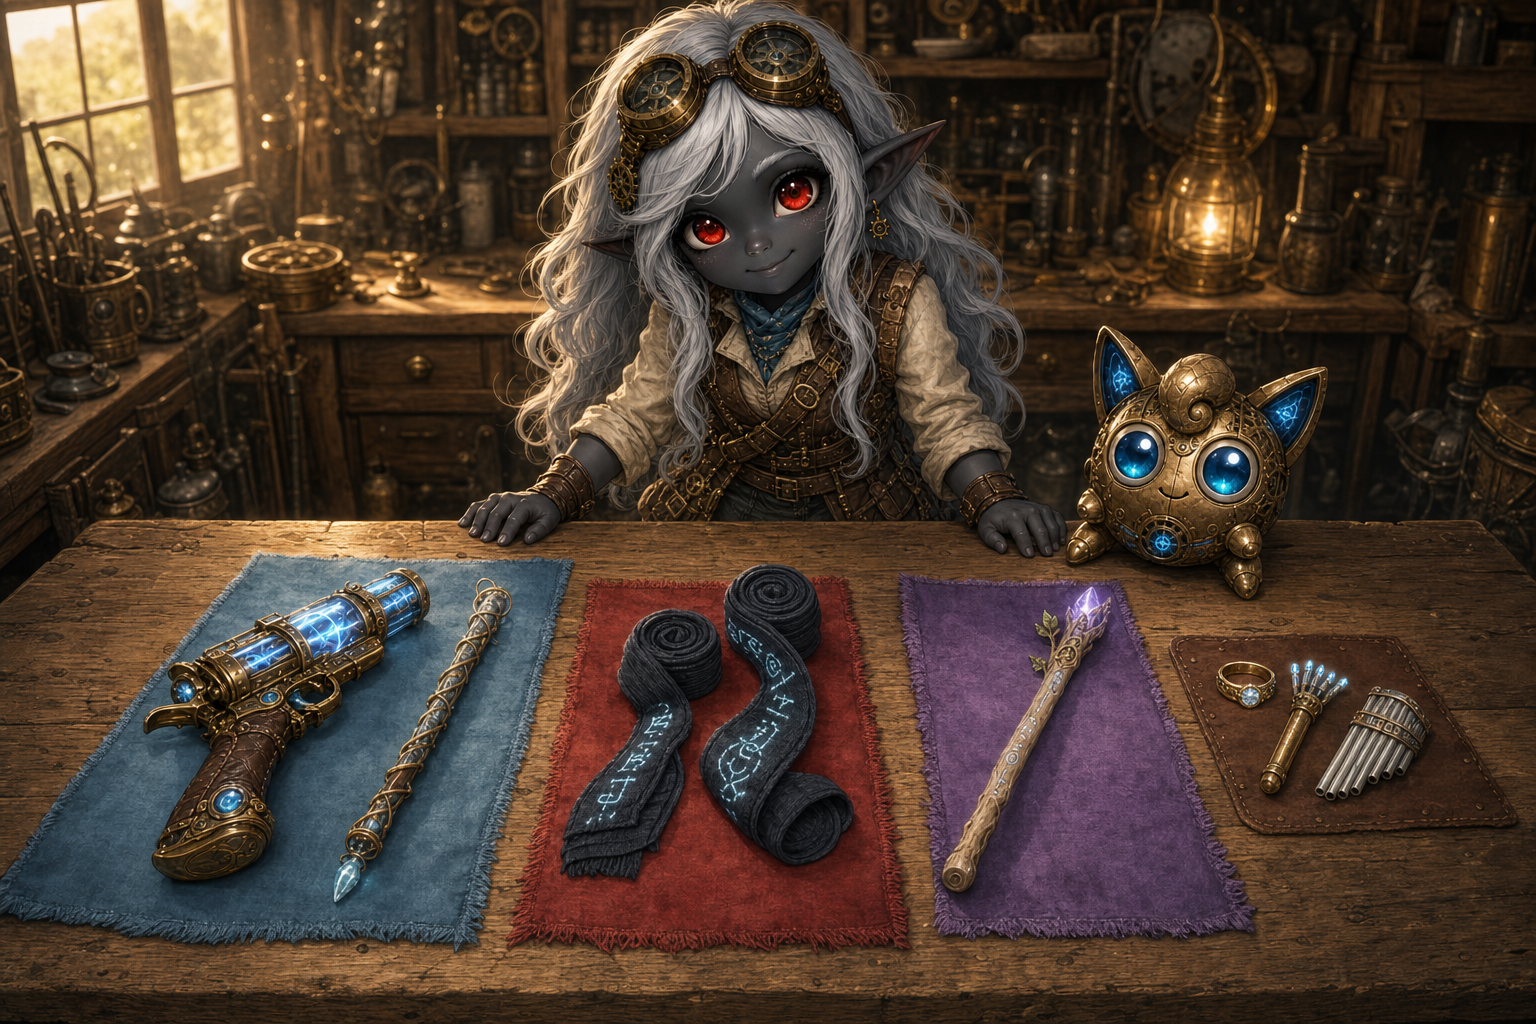
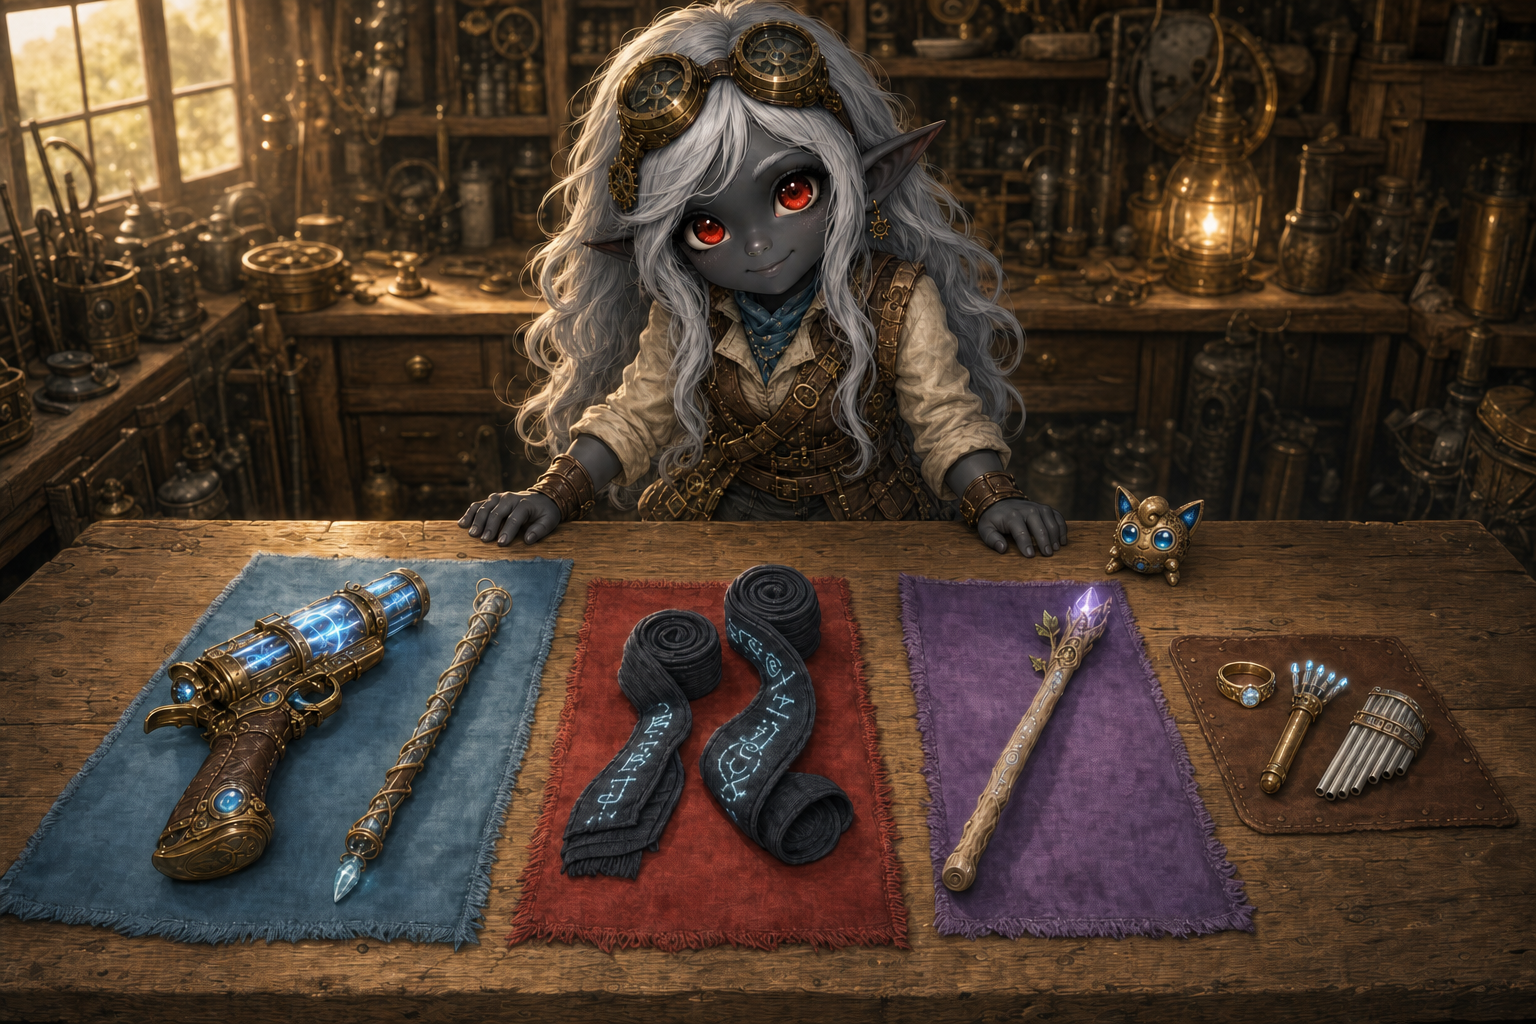
The handover scene, and Puff drawn at her actual size
Seven magic items land on three players at once in Session 8, and none of them
work the way a sword works. Charges run out at dawn rather than on a rest, one
casts at a save DC that is not Lilly's, and one does nothing at all until
somebody else loads it. So the handover is now a written scene rather than a
line of stage direction: Lilly explains each item, in her own voice, in a quiet
room with no monsters in it. Better they learn the Ring is empty here than on
the far side of the ring.

Each item gets what it does, why it matters, and the one thing its owner will
get wrong. Those traps are the point of the scene: the wraps do nothing for
Stabby's katana, Ursa's wand does not touch his save DC, Lilly's Wand of Web
casts at DC 13 and not her 16, and Puff has a single action so she can use only
one of her three things per turn. There is a one-page handout table at the end
carrying the same information for the players to keep.

The plate is corrected too. Puff had been drawn nearly the size of Lilly's
head, which breaks the canon scale rule that she is no bigger than a small
apple and fits in a child's cupped hands. Shrunk in place rather than re-rolled,
so the bench layout and the colour-coded cloths survived intact.

diff --git a/reference/campaign/session_08_draft.md b/reference/campaign/session_08_draft.md
@@ -112,6 +112,78 @@ So she stopped building at it and started listening to it.
 
 ---
 
+## Part 2b: The Handover
+
+Run this the morning before they step through, on the long bench in the Underworks. Lilly has laid everything out and sorted it by who it belongs to. See the plate: `assets/session_08/lilly_gifts_laid_out.png`.
+
+**Why this scene exists.** Three players are about to receive seven magic items between them, and none of those items work the way a sword works. Charges run out. One of them casts at a save DC that is not Lilly's. One of them has to be *loaded* by somebody else before it does anything at all. If the table does not learn this here, in a quiet room with no monsters, they will learn it at the worst possible moment on the other side of the ring. Let Lilly's player do the explaining wherever possible: it is her year's work and she has earned the moment.
+
+> **Read aloud.** Lilly has been awake since four. There is a cloth on the bench for each of you, which is a very Lilly way of doing things, and she has clearly rehearsed this speech, and she gets about six words into it before she gives up and just starts handing things over.
+
+### For Stabby: Wraps of Unarmed Power +2
+
+> "Give me your hands. No, the fists. *Both* of them."
+
+**How they work, in kid words:** wind them on and forget them. There is nothing to activate, nothing to spend, and nothing to run out. Every punch and kick is now **+2 to hit and +2 damage**, and he may choose to make any of those hits deal **Force** instead of bludgeoning, which almost nothing in the world resists.
+
+**What to say out loud at the table:** *your fists were the only weapon you owned with no magic in them, and now they are not.* His bonus-action punch happens nearly every turn, so this is not a small gift.
+
+**The one thing he will get wrong:** they do nothing for the katana. Nothing at all. The Nichirin is already +2 on its own and the wraps never stack with it.
+
+### For Ursa: Wand of the War Mage +2
+
+> "You have to be *holding* it. Not in your pack. Not on your belt. In your hand, the one without the staff."
+
+**How it works:** while he holds it, every **spell attack** he makes gets **+2 to hit**, and he ignores **Half Cover**. That is Starry Wisp, his Guiding Bolts, and his star-arrow, all to **+10**.
+
+**The one thing he will get wrong:** it does *not* raise his save DC. Spells where the enemy rolls a save (Spike Growth, Ice Storm, Polymorph) are unaffected. It only helps when *he* rolls to hit.
+
+**Table note:** the star-arrow counts, because Starry Form's arrow is a ranged spell attack. That means the wand improves two attacks a turn, not one. Make sure his player knows.
+
+### For Lilly: Wand of Web
+
+> "This one is mine. I have earned exactly one selfish thing."
+
+**How it works:** **7 charges.** Spend 1 as an action to cast **Web**: a 20-foot cube of sticky webbing that is difficult terrain, and anything caught in it makes a **Dexterity save or is Restrained**, escaping later with a Strength check. It regains **1d6+1 charges at dawn.**
+
+**The one thing everyone will get wrong:** the wand casts at **DC 13**, its own number, *not* Lilly's DC 16. Items cast at their own difficulty. Say this once at the table and write it on her sheet, which is already done.
+
+### For Puff: the three small things
+
+Puff gets a set of her own, and this needs the most explaining, because a homunculus has **one action on her turn** and three items to choose between. She cannot use two in a round.
+
+**Ring of Spell Storing** (worn, attuned to Puff). This one is a *shared* item and the party will miss it if nobody explains it.
+
+- It is **empty when you get it.** It does nothing until somebody loads it.
+- **Any caster** can load it: touch the ring while casting a spell of level 1 to 5, and the spell goes in instead of going off. It holds **5 levels of spells** in total.
+- Puff can then cast anything stored inside, using **the original caster's** slot level, save DC, and attack bonus. A spell Lilly puts in comes back out at **DC 16 and +8**, even though Puff herself is a little brass construct with no magic of her own.
+- **The tactical point:** this is how the party gets a second Revivify, or a second Healing Word, or a big spell on a turn when the caster is busy or unconscious. Encourage them to load it every morning and to think hard about what goes in.
+
+**Wand of Magic Missiles** (no attunement, so Puff can use it). **7 charges.** Spend **1 charge** for **three darts that never miss**, 1d4+1 Force each, at up to 120 feet, split between any targets she can see. She may spend up to **3 charges at once**, and each extra charge adds one more dart, so three charges means **five darts**. Regains 1d6+1 at dawn.
+
+- **Why it matters:** Puff's own attack is unreliable. Darts that cannot miss are perfect for finishing something on 3 hit points, or for hitting a target nobody else can reach.
+
+**Pipes of Haunting** (no attunement). **3 charges,** regaining 1d3 at dawn. A **Magic action** to play: every creature Puff chooses within **30 feet** makes a **Wisdom save DC 15** or is **Frightened for a minute**, re-saving at the end of each of its turns. Anything that saves is immune to the pipes for a day.
+
+- **Why it matters:** it is the party's only crowd control that costs no spell slot, and Frightened enemies cannot approach the source of their fear.
+
+### The handout table
+
+Give the players this. It is the whole handover on one page.
+
+| Item | Whose | Cost to use | What it does | The trap |
+|---|---|---|---|---|
+| Wraps of Unarmed Power +2 | Stabby | none, always on | +2 to hit and damage on fists and feet; may deal Force | Does nothing for the katana |
+| Wand of the War Mage +2 | Ursa | none, but must be **held** | +2 on every spell attack; ignore Half Cover | Does **not** raise his save DC |
+| Wand of Web | Lilly | 1 charge of 7, action | Web: 20-ft cube, Restrained on a failed save | Casts at **DC 13**, not her 16 |
+| Ring of Spell Storing | Puff | free to use, but must be **loaded first** | Holds 5 levels; casts at the loader's DC and slot | Empty until somebody casts into it |
+| Wand of Magic Missiles | Puff | 1 to 3 charges of 7, action | 3 darts that never miss (5 darts for 3 charges) | Puff gets one action, so one item per turn |
+| Pipes of Haunting | Puff | 1 charge of 3, Magic action | 30 ft, Wis DC 15 or Frightened 1 minute | A creature that saves is immune for 24 hours |
+
+**Recharging, once, for all of it:** wands regain **1d6+1** charges at dawn, the pipes regain **1d3**. Not on a rest. At dawn. On a long rift run they may not see a dawn when they expect one, and Aelwyn does not know how time runs on the other side. Let that worry them a little.
+
+---
+
 ## Part 3: The Ring, and What Is On The Other Side
 
 ### Aelwyn's briefing

diff --git a/assets/image_manifest.md b/assets/image_manifest.md
@@ -273,3 +273,4 @@ Embedded images recovered from the original raw session documents (word/media). 
 | Lilly's portrait re-edited 2026-08-17 to remove the worn glowing sphere (DM: she does not wear it). Composition preserved by editing in place rather than re-rolling. | `assets/gen_prompts/_sphere_removal_edit_lilly.txt` | the previous REF_lilly_6_level7.png |
 | Stabby's three LIT refs regenerated 2026-08-17 (portrait, fullbody, painted): he had been drawn gripping the katana one-handed with the glowing edge on the inner concave curve, i.e. holding it upside down. Now a two-handed stance, tip up, glow on the outer cutting edge. His model sheet was already correct and is unchanged. | `assets/gen_prompts/stabby_level7_{portrait,fullbody,painted}.txt` | REF_stabby_4_level7.png + items/nichirin_katana.png |
 | `assets/session_08/lilly_gifts_laid_out.png` (generated 2026-08-17; Session 8 reintroduction plate: Lilly presenting everything she built during the year apart, sorted by who receives it) | `assets/gen_prompts/lilly_gifts_laid_out.txt` | REF_lilly_6_level7.png + items/boomstick.png + REF_homunculus.png. House style forbids lettering in art, so who-gets-what is carried by the heroes' accent colours: frost-blue cloth = Lilly's own, crimson = Stabby, starlight-purple = Ursa, plain leather = Puff's set. |
+| `assets/session_08/lilly_gifts_laid_out.png` re-edited 2026-08-17: Puff was drawn nearly the size of Lilly's head, breaking the canon scale rule (no bigger than a small apple, fits in cupped hands). Shrunk in place rather than re-rolled so the approved bench layout survived. | `assets/gen_prompts/_puff_scale_edit.txt` | the previous version of the plate |
